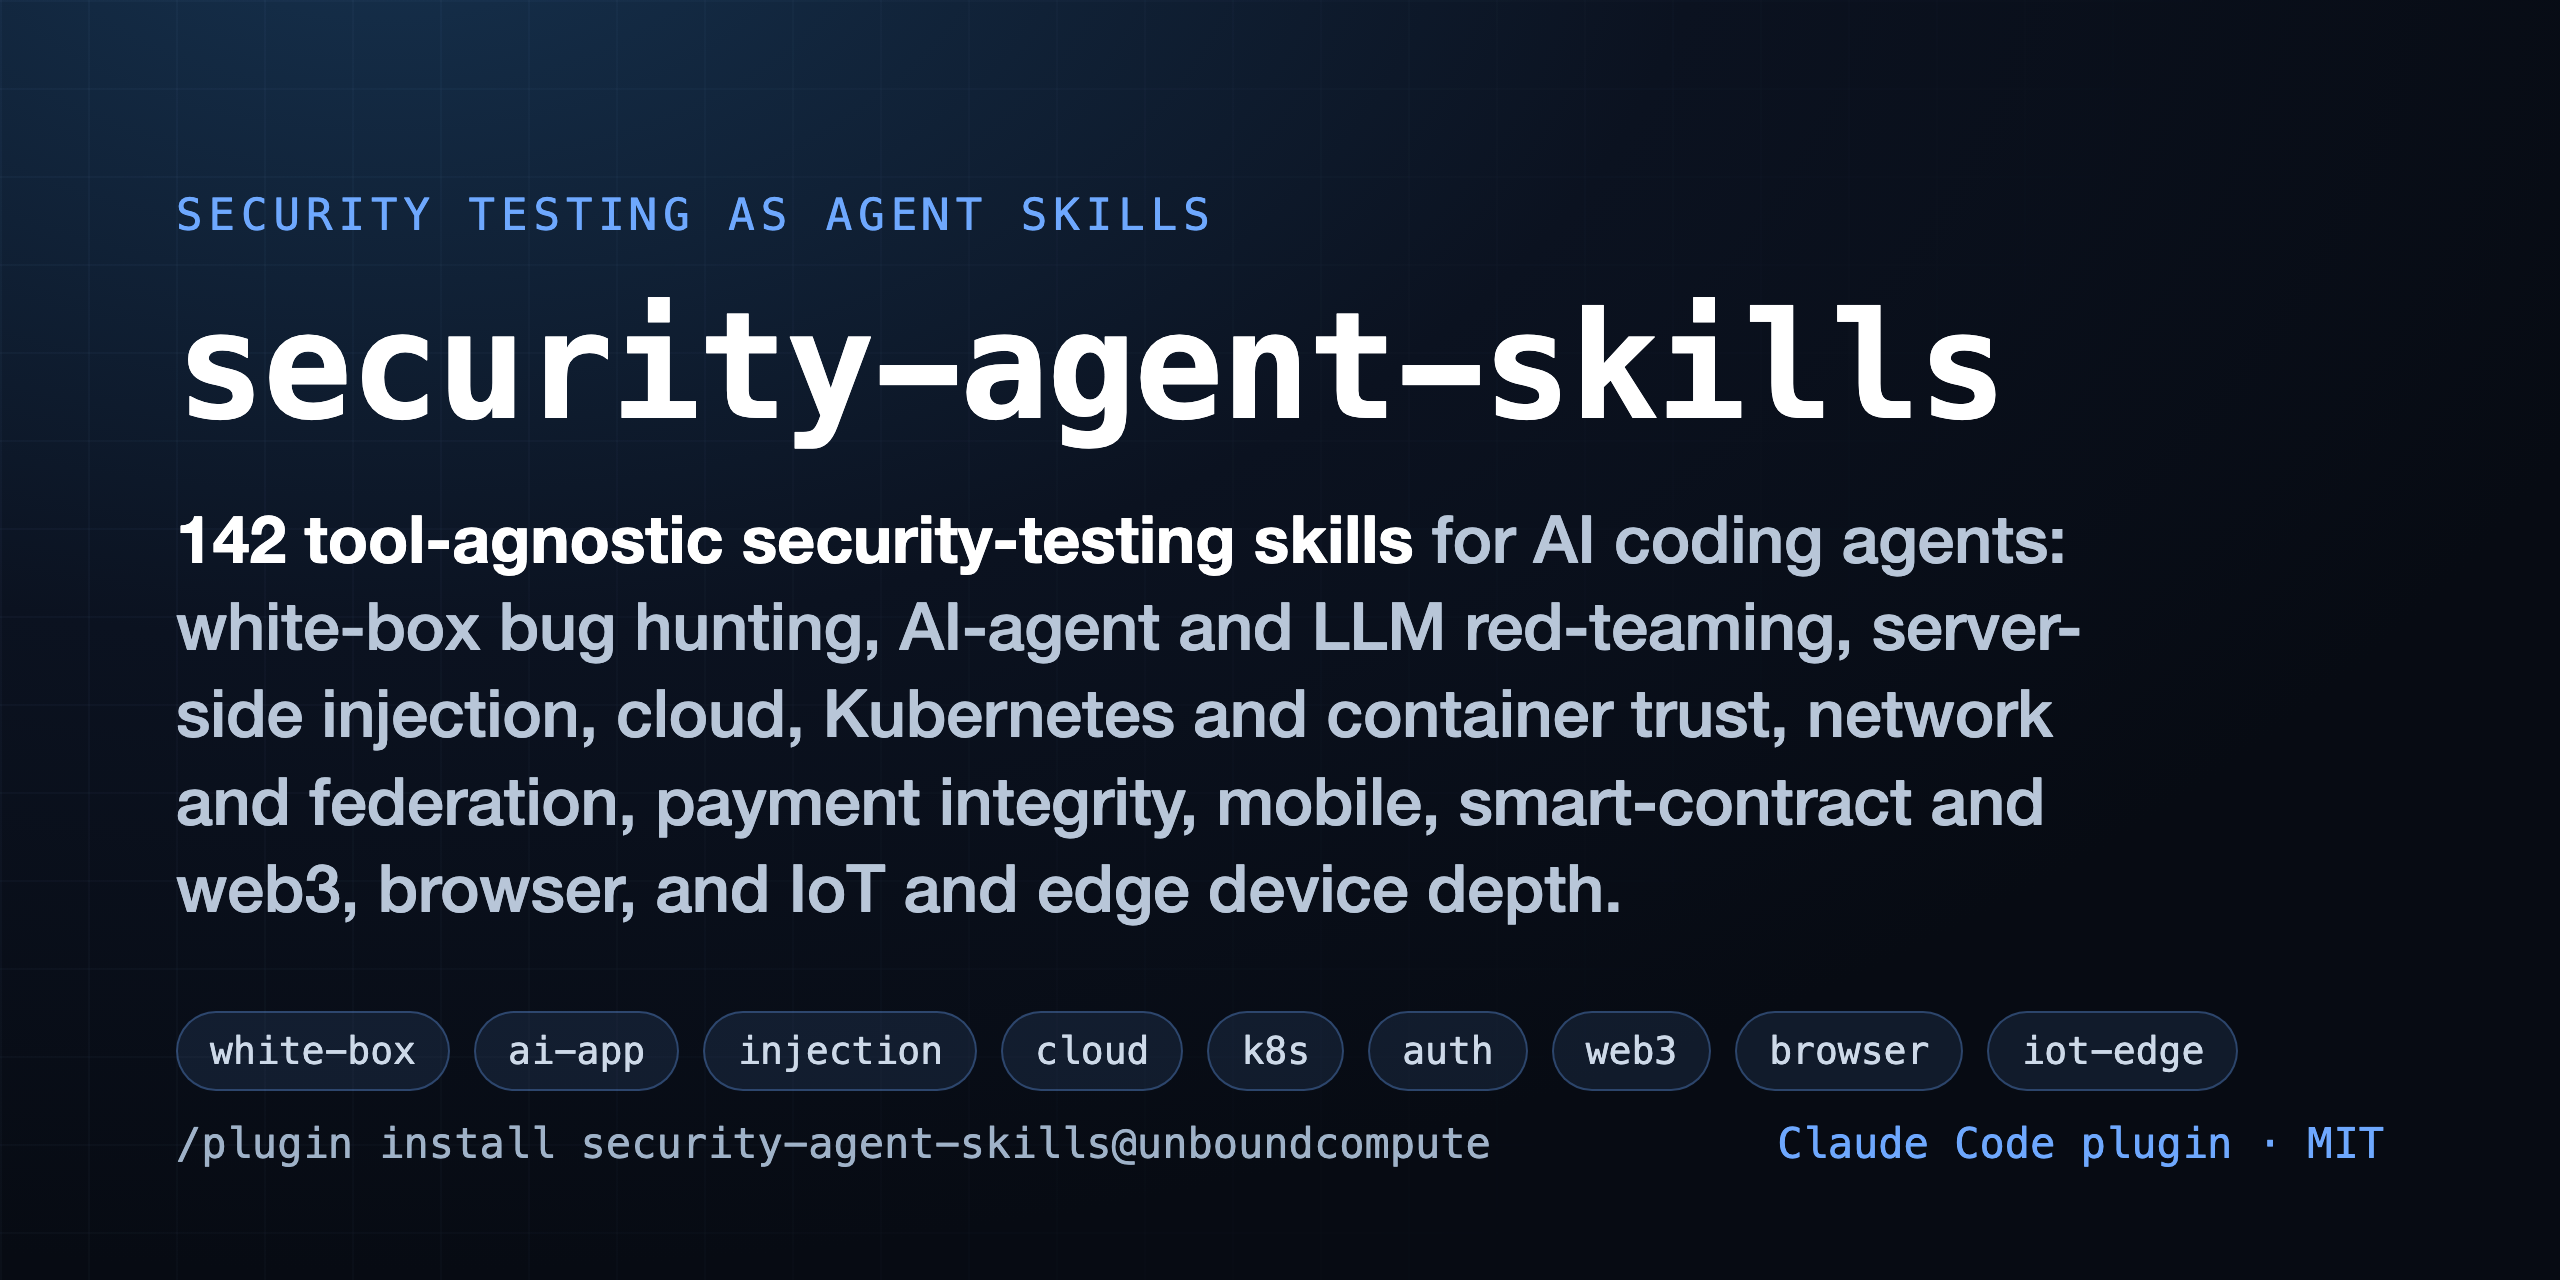
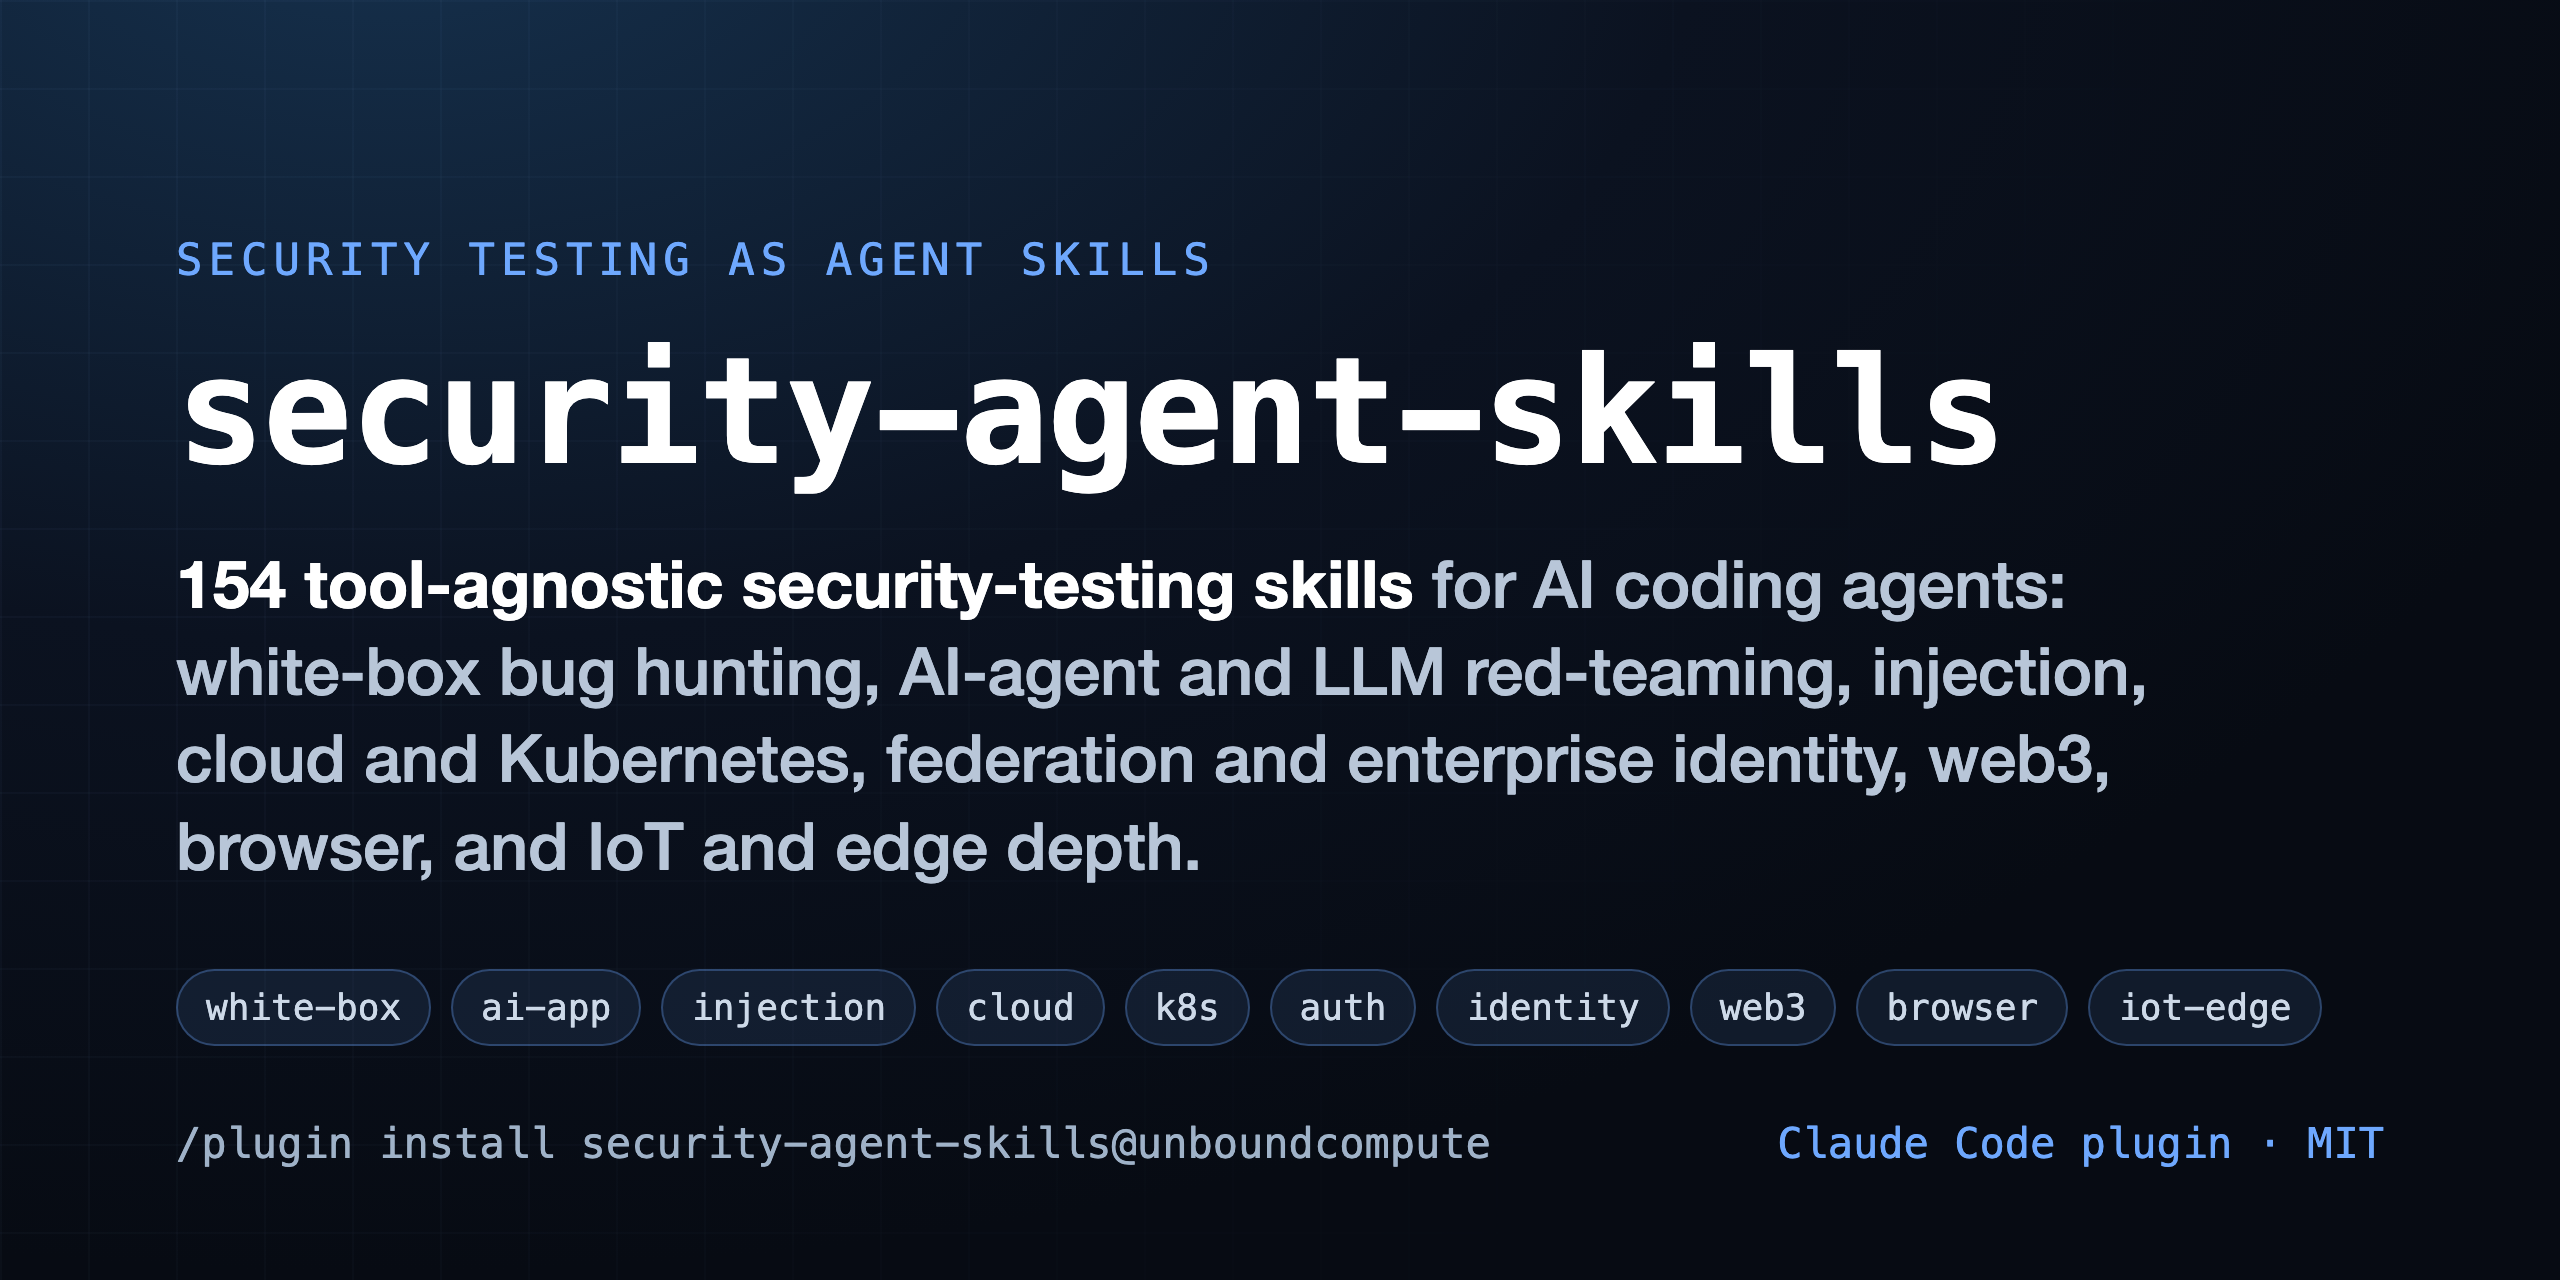
Wire v0.13.0: bump to 154 skills, refresh README/CHANGELOG/plugin/marketplace
Wave 0.13.0 adds the enterprise identity and provisioning batch (12 skills),
taking the catalog from 142 to 154 and introducing the identity lane.

- README: skills-154 badge, 154-skill hero line with an identity clause, 12
  new table rows under the identity lane, and a roadmap entry for the wave.
- CHANGELOG: a 0.13.0 entry covering the provisioning, credential-and-session,
  and privileged-identity sub-sets.
- plugin.json / marketplace.json: version 0.13.0, identity clause in the
  descriptions, and 15 identity keywords (scim, provisioning, sso, kerberos,
  mfa, service-accounts, machine-identity, break-glass, and peers).
- .github/social-preview.png: regenerated at 154 with an identity lane chip.

Changed region(s): [[0.0625, 0.1562, 0.8438, 0.7188], [0.0625, 0.75, 0.9062, 0.8438]]

diff --git a/README.md b/README.md
@@ -1,18 +1,20 @@
 # security-agent-skills
 
 ![license](https://img.shields.io/badge/license-MIT-blue?style=flat-square)
-![skills](https://img.shields.io/badge/skills-142-2ea44f?style=flat-square)
+![skills](https://img.shields.io/badge/skills-154-2ea44f?style=flat-square)
 ![Claude Code plugin](https://img.shields.io/badge/Claude%20Code-plugin-8A63D2?style=flat-square)
 ![method](https://img.shields.io/badge/method-tool--agnostic-orange?style=flat-square)
 
-**142 tool-agnostic security-testing skills for AI coding agents: white-box bug
+**154 tool-agnostic security-testing skills for AI coding agents: white-box bug
 hunting, AI-agent and LLM red-teaming, code-interpreter sandbox and
 model-inference-endpoint abuse, server-side injection and deserialization
 depth across SQL, NoSQL, LDAP, expression-language, and object streams, cloud
 identity, secrets, and KMS trust, infrastructure-as-code and container/Kubernetes
 and host workload trust, network, wire-protocol, and multiplexing trust across
 HTTP/2, gRPC, message brokers, and mutual TLS, federation and token trust across
-SAML, OIDC, OAuth, and JWT, account-recovery and payment-and-commerce integrity,
+SAML, OIDC, OAuth, and JWT, enterprise identity lifecycle across SCIM and JIT
+provisioning, directory sync, MFA and key lifecycle, Kerberos delegation, and
+break-glass and machine-identity trust, account-recovery and payment-and-commerce integrity,
 client-app trust surfaces across browser and editor extensions and Electron,
 mobile app security, smart-contract and DeFi review across EVM and Move plus web3
 account-abstraction, cross-chain bridge, MEV, signature-replay, and wallet-drainer
@@ -219,6 +221,18 @@ tools at each step and emitting findings in the shared schema.
 | [auditing-clickjacking-and-ui-redressing](skills/auditing-clickjacking-and-ui-redressing) | browser | Framing and overlay redressing a sensitive one-click action |
 | [auditing-ble-and-gatt-authorization](skills/auditing-ble-and-gatt-authorization) | iot-edge | GATT characteristics without device-side authorization, pairing, or replay protection |
 | [auditing-ota-and-firmware-update-channel-trust](skills/auditing-ota-and-firmware-update-channel-trust) | iot-edge | Unsigned, swapped, or rolled-back firmware installing on a device |
+| [auditing-scim-provisioning-trust](skills/auditing-scim-provisioning-trust) | identity | Weak SCIM token, missing tenant scoping, and over-granting group mapping |
+| [auditing-jit-provisioning-and-role-mapping](skills/auditing-jit-provisioning-and-role-mapping) | identity | First-login claims mapping to over-privilege or wrong-tenant auto-join |
+| [auditing-sso-logout-and-session-revocation](skills/auditing-sso-logout-and-session-revocation) | identity | Sessions and tokens outliving logout, single logout, disable, or reset |
+| [hunting-kerberos-and-ad-delegation-abuse](skills/hunting-kerberos-and-ad-delegation-abuse) | identity | Unconstrained delegation and roastable service accounts reaching higher privilege |
+| [auditing-mfa-enrollment-and-reset-abuse](skills/auditing-mfa-enrollment-and-reset-abuse) | identity | Enrolling, resetting, or skipping a second factor from a stolen first factor |
+| [auditing-api-key-and-token-lifecycle](skills/auditing-api-key-and-token-lifecycle) | identity | Over-scoped, unexpiring, leaked, or unrevocable keys granting standing access |
+| [auditing-service-account-key-lifecycle](skills/auditing-service-account-key-lifecycle) | identity | Over-privileged, unrotated, or exportable service-account keys in repos and CI |
+| [auditing-directory-sync-trust](skills/auditing-directory-sync-trust) | identity | Bulk sync trusting source attributes to set privilege, tenancy, or identity |
+| [auditing-idp-initiated-flow-trust](skills/auditing-idp-initiated-flow-trust) | identity | Unsolicited assertions replayed, cross-audience, or redirecting via RelayState |
+| [hunting-tenant-onboarding-and-discovery-abuse](skills/hunting-tenant-onboarding-and-discovery-abuse) | identity | Domain auto-join, unproven claims, and unbound invites into a tenant |
+| [auditing-break-glass-account-trust](skills/auditing-break-glass-account-trust) | identity | Static, unwatched, or over-granted emergency access outliving the emergency |
+| [auditing-machine-identity-issuance](skills/auditing-machine-identity-issuance) | identity | Forgeable proofs and over-broad federation trust minting machine identities |
 | [writing-vuln-reports](skills/writing-vuln-reports) | reporting | Confirmed finding to a reproducible writeup |
 
 Every finding, from any skill, is emitted in the shared
@@ -324,6 +338,12 @@ on a small target. The method does not depend on which.
       MEV, account abstraction, cross-chain bridge, signature replay, and
       wallet-drainer trust; browser third-party-script and clickjacking trust;
       and IoT/edge BLE and firmware-update trust
+- [x] Enterprise identity and provisioning: SCIM and just-in-time provisioning
+      trust, SSO logout and session revocation, Kerberos and AD delegation
+      abuse, MFA enrollment and reset abuse, API-key and service-account key
+      lifecycle, directory-sync trust, IdP-initiated flow trust, tenant
+      onboarding and discovery abuse, break-glass account trust, and
+      machine-identity issuance
 
 ## Design
 

diff --git a/CHANGELOG.md b/CHANGELOG.md
@@ -3,6 +3,47 @@
 Notable changes to this skill library. Versions follow the plugin version in
 `.claude-plugin/plugin.json`.
 
+## 0.13.0
+
+A wave across enterprise identity and provisioning, growing the library from 142
+to 154 skills in one batch of twelve, extending the authentication lane from a
+single login into the whole identity lifecycle: how identities are provisioned,
+elevated, synchronized, ended, and issued. Each skill leads with the
+false-positive killer a scanner skips, establishing the intended trust before
+testing the deviation.
+
+The provisioning set covers how an account and its privilege come into being.
+SCIM provisioning trust treats the provisioning token as an admin credential and
+checks tenant scoping, group mapping, and whether deprovisioning actually
+revokes; just-in-time provisioning and role mapping follows a federated login
+into the account and roles it creates, checking that no unvalidated claim sets
+privilege and no email domain auto-joins a tenant; directory-sync trust treats a
+bulk feed as untrusted input, checking that no source attribute sets privilege
+without validation and no spoofable key merges an identity; and tenant onboarding
+and discovery abuse walks every way into an organization, from domain auto-join to
+unbound invitations to first-claim-wins org creation.
+
+The credential-and-session set covers how identity persists and ends. SSO logout
+and session revocation ends a session by every means and checks that every
+downstream session and token actually terminates; MFA enrollment and reset abuse
+holds only the first factor and tries to add, reset, or skip the second; API-key
+and service-account key lifecycle bounds each long-lived credential by scope,
+expiry, and working revocation, and hunts leaked and exportable keys; and
+IdP-initiated flow trust treats an unsolicited assertion with no request anchor as
+untrusted, checking audience, replay defense, and RelayState handling.
+
+The privileged-identity set covers the highest-trust identities. Kerberos and AD
+delegation abuse traces unconstrained delegation and roastable service accounts to
+the highest identity they reach; break-glass account trust checks that the
+last-resort key is sealed, watched, minimally scoped, and reviewed; and
+machine-identity issuance follows issuance from the proof presented to the
+identity granted, checking that forgeable proofs and over-broad federation trusts
+cannot mint an identity they should not.
+
+Every skill follows the standard template and emits the shared finding schema,
+with source, sink, and evidence named for each. A new `identity` lane groups the
+twelve in the skills table.
+
 ## 0.12.0
 
 A wave across emerging trust surfaces, growing the library from 130 to 142
